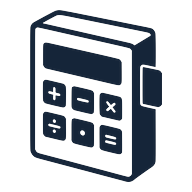
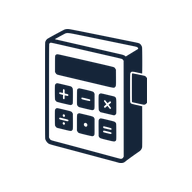
Add files via upload

Changed region(s): [[0.1562, 0.0312, 0.8438, 0.9688]]

diff --git a/related-sections-en.js b/related-sections-en.js
@@ -2,4 +2,4 @@
  * CalcLex (calclex.com)
  * Copyright (c) 2026 CalcLex. All rights reserved.
  */
-!function(){function l(l){return`\n      <a class="rel-card${l.active?"":" disabled"}" href="${l.active?l.url:"#"}">\n        <span class="rel-emoji">${l.emoji}</span>\n        <span class="rel-cat">${l.cat}</span>\n        <span class="rel-title">${l.title}</span>\n      </a>\n    `}function t(t,a){return 0===a.length?"":`\n      <div class="rel-section">\n        <h2 class="rel-heading">${t}</h2>\n        <div class="rel-scroll">${a.map(l).join("")}</div>\n      </div>\n    `}window.renderRelatedSections=function(l){const a=document.getElementById("relatedSections");if(!a||!window.CALCULATORS)return;const c=window.CALCULATORS,e=c.find(t=>t.url===l),n=e?e.cat:null,u={"/en/calculators/stress.html":["/en/calculators/unit-pressure.html","/en/calculators/unit-force.html","/en/calculators/unit-area.html"],"/en/calculators/moment.html":["/en/calculators/unit-length.html","/en/calculators/unit-force.html"],"/en/calculators/pipe.html":["/en/calculators/unit-pressure.html","/en/calculators/unit-volume.html","/en/calculators/unit-speed.html"],"/en/calculators/pump.html":["/en/calculators/unit-power.html","/en/calculators/unit-pressure.html","/en/calculators/unit-volume.html"],"/en/calculators/torque.html":["/en/calculators/unit-power.html","/en/calculators/unit-force.html"],"/en/calculators/electric.html":["/en/calculators/unit-power.html"],"/en/calculators/heat.html":["/en/calculators/unit-energy.html","/en/calculators/unit-temperature.html"],"/en/calculators/uvalue.html":["/en/calculators/unit-temperature.html","/en/calculators/unit-area.html"],"/en/calculators/gas.html":["/en/calculators/unit-pressure.html","/en/calculators/unit-temperature.html","/en/calculators/unit-volume.html"],"/en/calculators/solution.html":["/en/calculators/unit-volume.html","/en/calculators/unit-weight.html"],"/en/calculators/cbm.html":["/en/calculators/unit-volume.html","/en/calculators/unit-length.html"],"/en/calculators/pallet.html":["/en/calculators/unit-length.html","/en/calculators/unit-weight.html"],"/en/calculators/container.html":["/en/calculators/unit-volume.html","/en/calculators/unit-weight.html"],"/en/calculators/airweight.html":["/en/calculators/unit-weight.html","/en/calculators/unit-length.html"],"/en/calculators/customs.html":["/en/calculators/unit-currency.html"],"/en/calculators/tripcost.html":["/en/calculators/unit-fuel.html","/en/calculators/unit-ev.html"]}[l]||[],r=({"/en/calculators/unit-fuel.html":["/en/calculators/unit-ev.html","/en/calculators/tripcost.html"],"/en/calculators/unit-ev.html":["/en/calculators/unit-fuel.html","/en/calculators/tripcost.html"],"/en/calculators/tripcost.html":["/en/calculators/unit-fuel.html","/en/calculators/unit-ev.html"],"/en/calculators/baby.html":["/en/calculators/dday.html","/en/calculators/petage.html"],"/en/calculators/petage.html":["/en/calculators/baby.html","/en/calculators/loan.html"]}[l]||[]).concat(u).map(l=>c.find(t=>t.url===l)).filter(Boolean).filter((l,t,a)=>a.findIndex(t=>t.url===l.url)===t),s=r.map(l=>l.url),o=t=>t.url!==l&&!s.includes(t.url),i=c.filter(l=>o(l)&&l.cat===n),m=c.filter(l=>o(l)&&l.cat!==n),h=r.concat(i,m).slice(0,10),p=c.filter(t=>t.url!==l&&t.active&&t.visits>0).sort((l,t)=>t.visits-l.visits).slice(0,10);a.innerHTML=t("🔗 Related Calculators",h)+t("🔥 Popular Calculators",p)}}();
+!function(){function l(l){return`\n      <a class="rel-card${l.active?"":" disabled"}" href="${l.active?l.url:"#"}">\n        <span class="rel-emoji">${l.emoji}</span>\n        <span class="rel-cat">${l.cat}</span>\n        <span class="rel-title">${l.title}</span>\n      </a>\n    `}function t(t,a){return 0===a.length?"":`\n      <div class="rel-section">\n        <h2 class="rel-heading">${t}</h2>\n        <div class="rel-scroll">${a.map(l).join("")}</div>\n      </div>\n    `}window.renderRelatedSections=function(l){const a=document.getElementById("relatedSections");if(!a||!window.CALCULATORS)return;const c=window.CALCULATORS,e=c.find(t=>t.url===l),n=e?e.cat:null,u={"/en/calculators/stress.html":["/en/calculators/unit-pressure.html","/en/calculators/unit-force.html","/en/calculators/unit-area.html"],"/en/calculators/moment.html":["/en/calculators/unit-length.html","/en/calculators/unit-force.html"],"/en/calculators/pipe.html":["/en/calculators/unit-pressure.html","/en/calculators/unit-volume.html","/en/calculators/unit-speed.html"],"/en/calculators/pump.html":["/en/calculators/unit-power.html","/en/calculators/unit-pressure.html","/en/calculators/unit-volume.html"],"/en/calculators/torque.html":["/en/calculators/unit-power.html","/en/calculators/unit-force.html"],"/en/calculators/electric.html":["/en/calculators/unit-power.html"],"/en/calculators/heat.html":["/en/calculators/unit-energy.html","/en/calculators/unit-temperature.html"],"/en/calculators/uvalue.html":["/en/calculators/unit-temperature.html","/en/calculators/unit-area.html"],"/en/calculators/gas.html":["/en/calculators/unit-pressure.html","/en/calculators/unit-temperature.html","/en/calculators/unit-volume.html"],"/en/calculators/solution.html":["/en/calculators/unit-volume.html","/en/calculators/unit-weight.html"],"/en/calculators/cbm.html":["/en/calculators/unit-volume.html","/en/calculators/unit-length.html"],"/en/calculators/pallet.html":["/en/calculators/unit-length.html","/en/calculators/unit-weight.html"],"/en/calculators/container.html":["/en/calculators/unit-volume.html","/en/calculators/unit-weight.html"],"/en/calculators/airweight.html":["/en/calculators/unit-weight.html","/en/calculators/unit-length.html"],"/en/calculators/tripcost.html":["/en/calculators/unit-fuel.html","/en/calculators/unit-ev.html"]}[l]||[],r=({"/en/calculators/unit-fuel.html":["/en/calculators/unit-ev.html","/en/calculators/tripcost.html"],"/en/calculators/unit-ev.html":["/en/calculators/unit-fuel.html","/en/calculators/tripcost.html"],"/en/calculators/tripcost.html":["/en/calculators/unit-fuel.html","/en/calculators/unit-ev.html"],"/en/calculators/baby.html":["/en/calculators/dday.html","/en/calculators/petage.html"],"/en/calculators/petage.html":["/en/calculators/baby.html","/en/calculators/loan.html"]}[l]||[]).concat(u).map(l=>c.find(t=>t.url===l)).filter(Boolean).filter((l,t,a)=>a.findIndex(t=>t.url===l.url)===t),s=r.map(l=>l.url),o=t=>t.url!==l&&!s.includes(t.url),i=c.filter(l=>o(l)&&l.cat===n),m=c.filter(l=>o(l)&&l.cat!==n),h=r.concat(i,m).slice(0,10),p=c.filter(t=>t.url!==l&&t.active&&t.visits>0).sort((l,t)=>t.visits-l.visits).slice(0,10);a.innerHTML=t("🔗 Related Calculators",h)+t("🔥 Popular Calculators",p)}}();
